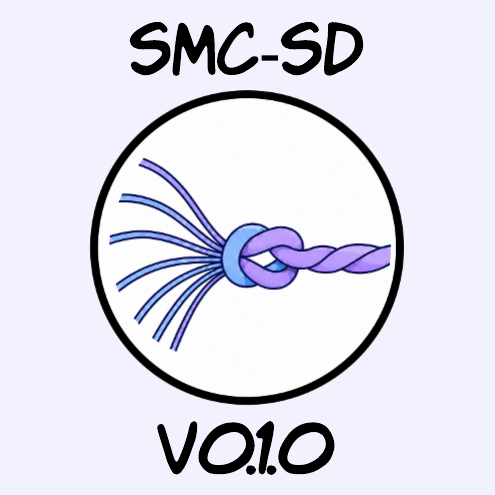
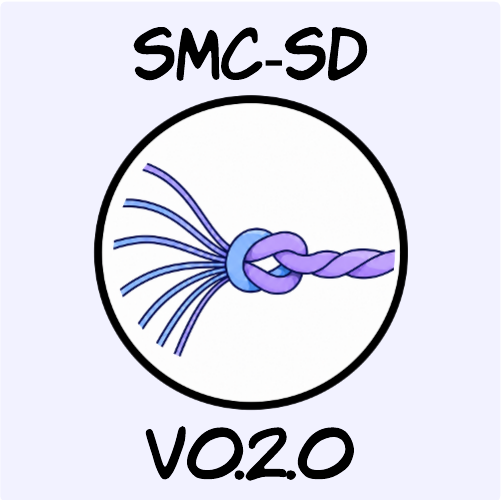
v2 blog post finalization

diff --git a/_blogs/smcsd_engine_v0_2_0.md b/_blogs/smcsd_engine_v0_2_0.md
@@ -22,22 +22,22 @@ materials:
     type: code
 ---
 
-TL;DR: We present a series of SMC-SD engine-level optimizations: refcounted KV prefix sharing, an overlap scheduler that removes decode-loop DtoH syncs, a deferred bonus token, and full-cycle CUDA graphing with a graph-safe Gumbel-max sampler. Together, this makes our v0.2.0 SMC-SD engine ~22% faster with no change to the algorithm or its outputs.
+**TL;DR**: We present a series of SMC-SD engine-level optimizations: refcounted KV prefix sharing, an overlap scheduler that removes decode-loop DtoH syncs, a deferred bonus token, and full-cycle CUDA graphing with a graph-safe Gumbel-max sampler. Together, this makes our v0.2.0 SMC-SD engine ~22% faster with no change to the algorithm or its outputs.
 
-# Introduction
+# 1. Introduction
 
-In this blog post, we look back at  our [SMC-SD inference engine](https://arxiv.org/abs/2604.15672), which achieved strong performance results relative to existing speculative decoding algorithms, and we discuss new optimizations that make our v0.2.0 engine significantly faster.
+In this blog post, we look back at  our [SMC-SD inference engine](../smcsd-engine-v0-1-0/), which achieved strong performance results relative to existing speculative decoding algorithms, and we discuss new optimizations that make our v0.2.0 engine significantly faster.
 
 **What SMC-SD is, and why it's fast.** Unlike rejection-based speculative decoding (EAGLE, Medusa, DFlash), which keeps only the longest draft prefix the target agrees with, SMC-SD *never rejects*. It runs **N particles** per request; each cycle every particle drafts **K** tokens from the small draft model, the target scores them in a single forward, and instead of truncating we **accept all K tokens and correct via importance reweighting**: each particle accumulates a log-weight `α·log p_target − log q_draft`, particles are resampled across the population, and a bonus token is drawn at the end. So the sequence advances by a guaranteed **K+1 tokens every cycle**, deterministically, while the particle weights (not the accepted length) carry the correction back to the target distribution. This gives SMC-SD a tunable quality/throughput knob (via N and the power-target temperature) and strong accuracy at high token rates; see the paper [[1](https://arxiv.org/abs/2604.15672)] for the algorithm, the estimator, and the accuracy/throughput results against baselines.
 
 **Where the performance is still on the table.** SMC-SD's no-rejection rule has a second, *systems* consequence: because no token is ever rejected, the cycle's execution shape (tensor sizes, kernel sequence, control flow) is **fully static and data-independent**, fixed before any token is seen. That matters because the bottleneck at batch size 1 is the orchestration. A cycle is many GPU ops (K draft forwards, a target verify, a sampler, a resampler) glued together by host-side Python, kernel launches, and CPU↔GPU syncs, and we measure the bs=1 cycle running at only ~34.5% of the HBM roofline, i.e. **~65% of the wall-clock is bubble**, not useful weight-streaming. Rejection-based SD can't capture a whole cycle ahead of time because its accepted length is dynamic; SMC-SD's static shape lets us fuse and overlap the bubble away. The rest of this post walks through that stack: **refcounted KV prefix sharing** to make N particles cheap, an **overlapped scheduler** that strips the decode-loop syncs, a **deferred bonus token** that fuses two decode steps into one, and a **full-cycle CUDA graph** (unlocked by a graph-safe Gumbel-max sampler) that collapses the per-step host dispatch into a single launch, increasing our performance on a B200 GPU by 22%.
 
 <figure>
-<img src="/imgs/blog/smcsd_engine_v0_2_0/281098f2-d900-4348-ad7a-655716074a13.png" alt="SMC-SD performance boost" width="800"/>
-  <figcaption>SMC-SD performance boost from each optimization with a Llama-8B/Llama-1B target-draft pair on a B200 GPU. Total gain: +380 TPS, +22% over v1.</figcaption>
+<img src="/imgs/blog/smcsd_engine_v0_2_0/281098f2-d900-4348-ad7a-655716074a13.png" alt="SMC-SD performance boost" width="400" style="display:block; margin:0 auto;"/>
+  <figcaption  style="text-align:left;"> SMC-SD performance boost from each optimization with a Llama-8B/Llama-1B target-draft pair on a B200 GPU. Total gain: +380 TPS, +22% over v1.</figcaption>
 </figure>
 
-# Efficient Prefix-Sharing via Refcounted KV
+# 2. Efficient Prefix-Sharing via Refcounted KV
 
 When running SMC-SD, each user request fans out into **N particles,** all starting from the same prompt. Two KV caches are used (for both the draft and target models), and each particle needs the prompt's KV prefix in both. The naïve implementation would give each particle its own copy of the prefix, which would cost `Nx` the KV memory. Compounding memory management problems, the `N×` copy bandwidth hurts fan-out and resample latency. 
 
@@ -79,7 +79,7 @@ This makes N-particle SMC affordable: particles share a prefix safely and resamp
 
 **Note:** SGLang already refcounts shared KV as RadixAttention hashes token spans into a radix tree and reference-counts the tree *nodes* so a prefix shared across requests survives until the last user is done with it. But that machinery is the wrong shape for SMC on two counts. First, its refcount API is **per-node and single-node** (`inc_lock_ref(node)` / `dec_lock_ref(node)`), with no way to bump or drop a *batch* of slots at once, yet every SMC decode step duplicates and frees slots across N particles and many groups at once, and has to do so without a host sync (see the overlap scheduler). Second, SGLang only **registers spans into the radix tree at request boundaries,** after prefill finishes, when a request finishes, or on retraction, but never during decoding, which is exactly when SMC's sharing is created and destroyed by fan-out and resampling. So rather than fight the tree-cache API, we add a thin per-slot refcount layer of our own: the base `TokenToKVPoolAllocator` we inherit from SGLang has no refcounts, and we add them.
 
-# Overlapped Scheduling
+# 3. Overlapped Scheduling
 
 Here is a code block showing the hot-path of the V1 engine’s event loop—-the core scheduler loop that fetches requests and dispatches work to the GPU.
 
@@ -118,11 +118,11 @@ The problem with this event loop is that it leaves a lot of idle GPU time betwee
 
 The GPU bubble between SMC-SD cycles effectively disappears!
 
-## Removing CPU-GPU roundtrips Syncs
+## 3.1 Removing CPU-GPU roundtrips Syncs
 
 Before we can fully overlap CPU scheduling with GPU work, we need to remove a key blocking device-to-host (DtoH) sync on the decode hot path. Our resampling step involves (1) drawing random samples to determine which particles are duplicated and which are eliminated and (2) reshuffling KV cache pages given the plan from the previous step. In our V1 engine, the dispatch grid of the kernel that did (2) depended GPU-resident data after completing step (1), forcing a DtoH sync. Crucially, this step also cannot be pushed to the post-processing stage where the CPU work will overlap with the GPU as the next SMC-SD step needs to know which pages are associated to each request in a batch. We this sync by dispatching the KV reshuffle kernel with a loosely upper bounded grid that keeps its shape static, and by always launching the KV reshuffle kernel even when it is a no-op (for instance, when the effective sample size is not below the resampling threshold). The loose upper bound we use for the KV reshuffle kernel leads to considerably more threads being dispatched on the GPU that do wasteful work; the kernel goes from 2us to 5us. Moreover, even when no particles are resampled and no GPU work is needed, we dispatch the KV reshuffle kernel, anyway, to avoid branch logic that would force a DtoH sync. Both of these penalties are considerably less than the cost of moving data between the GPU and CPU and are worth it to keep GPUs brr’ing.
 
-## Overlapped Scheduling Event Loop
+## 3.2 Overlapped Scheduling Event Loop
 
 After removing the blocking DtoH sync between SMC-SD steps, we are left with two non-blocking procedures that run on the CPU:
 
@@ -159,7 +159,7 @@ Once we’ve made these changes, we can implement our overlapped scheduler event
 																					              # copied to host and then processes result
 ```
 
-# Deferred bonus token
+# 4. Deferred bonus token
 
 In our V1 engine, we dealt with the bonus token by running $K+1$ forward passes of the draft model and then replacing the $(K+1)$’th token with the bonus token generated by the target model. We do this so that the draft’s KV cache for the $K$’th token is already computed for the next SMC-SD round. The single uncommitted “frontier token” is then the bonus token.
 
@@ -199,7 +199,7 @@ For a $K=1,N=64$, Llama-1B/8B configuration on an H100, our profiler timeline lo
 
 Idle GPU time between SMC-SD steps effectively disappears we go from 122 tokens-per-second to 190—-a 59% speed-up!
 
-# Cuda-graphing the full cycle
+# 5. Cuda-graphing the full cycle
 
 Per cycle, the draft model runs $K$ autoregressive forward passes. In the straightforward implementation, each of those are its own decode-graph replay, its own `replay_prepare` to write attention metadata, its own kernel launches for the forward and the eager (op-by-op) sampling. The sampled token stays on the GPU and flows straight into the next forward, so there's **no synchronization here** — but every step still costs host time to dispatch. At ~0.74 ms of host dispatch per step, and with the draft model's per-step GPU work being small, the GPU drains its kernel queue faster than the CPU can refill it and ends up **launch-bound** — about 25% idle at batch size 32, waiting on the CPU rather than on a sync.
 
@@ -215,7 +215,7 @@ for s in 0..K:
 
 Interestingly, SMC-SD is an easier case to do this for than normal speculation. The whole thing works because **batch composition is static within a cycle,** the draft loop and the verify pass that follows see the same batch size, particle slots don't move mid-cycle, and the per-step `seq_lens` are just affine in the step index. There's no tree to prune or variable acceptance length to branch on. So the chain of forwards is a fixed shape we can compile into a cuda graph.
 
-## Making the sampler capturable: Gumbel-max
+## 5.1 Making the sampler capturable: Gumbel-max
 
 To capture the draft phase as one graph, the **sampling has to live inside the graph too.** The obvious sampler, `softmax(logits/T)` → `torch.multinomial`, **cannot be captured**: its RNG isn't graph-safe.
 

diff --git a/_blogs/smcsd_engine_v0_1_0.md b/_blogs/smcsd_engine_v0_1_0.md
@@ -1,5 +1,5 @@
 ---
-title: "SMC-SD with SGLang — v0.1.0"
+title: "SMC-SD Inference Engine v0.1.0"
 authors:
   - key: chichih
   - key: yahya
@@ -248,7 +248,7 @@ SMC-SD breaks the “one request = one sequence” assumption, turning each requ
 # Citing
 ```bibtex
 @misc{chang2026_smcsd_engine_v1,
-      title={SMC-SD with SGLang — v0.1.0}, 
+      title={SMC-SD Inference Engine v0.1.0}, 
       author={Chi-Chih Chang and Yahya Emara and Mauricio Barba da Costa and Mohamed Abdelfattah},
       year={2026},
       url={https://abdelfattah-lab.github.io/blog/smcsd_engine_v0_1_0}, 